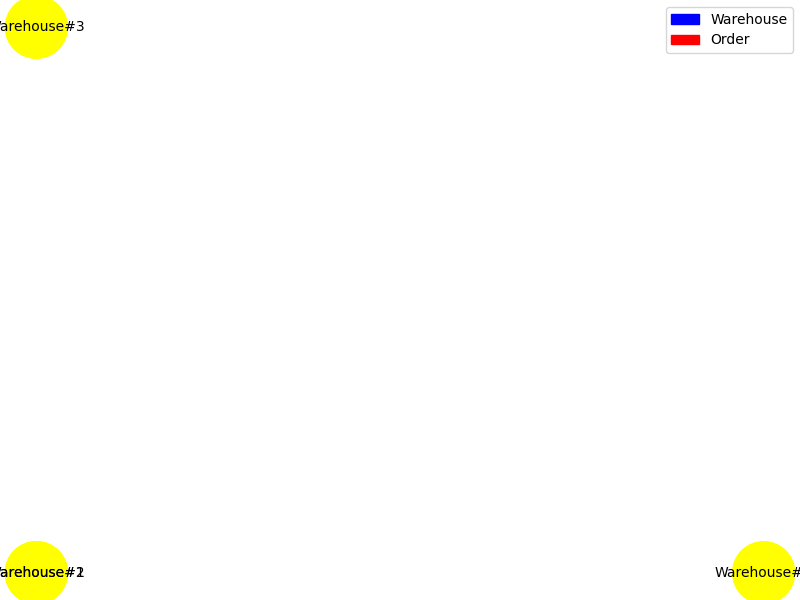
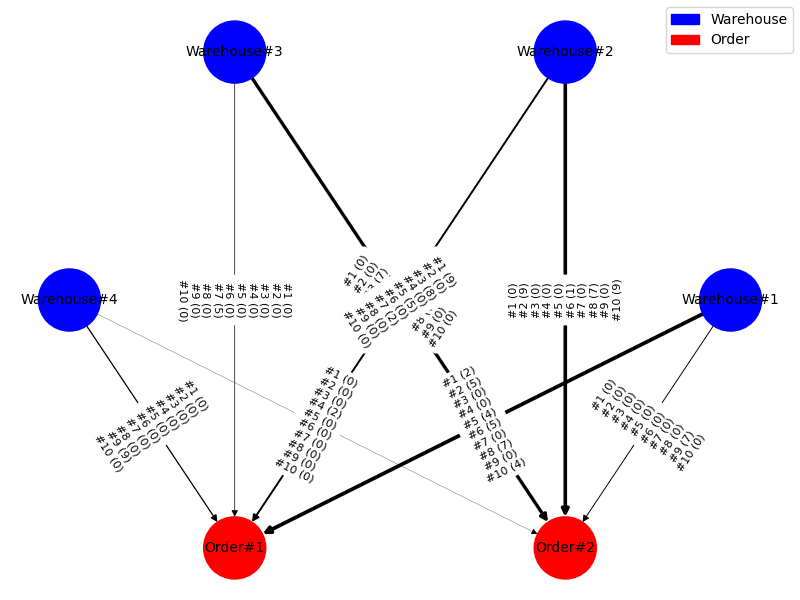
commit

diff --git a/network_diagram.py b/network_diagram.py
@@ -10,54 +10,63 @@ from read_data import load_excel_data
 def create_sourcing_graph(fulfillment_solution):
     # Create a directed graph
     G = nx.DiGraph()
-
-    # Determine warehouses and orders from shipments
-    warehouses = set(w for w, _, _, _ in fulfillment_solution)
-    orders = set(o for _, _, o, _ in fulfillment_solution)
-
-    print(orders)
-
-    # Add nodes to graph
+    
+    # Extract warehouses and orders from the DataFrame
+    warehouses = fulfillment_solution["Warehouse"].unique()
+    orders = fulfillment_solution["Order"].unique()
+    
+    # Add nodes for warehouses (blue) and orders (red)
     G.add_nodes_from(warehouses, color='blue')  # Warehouses
     G.add_nodes_from(orders, color='red')  # Orders
 
-    # Group shipments by (warehouse, order)
+    # Group shipments by (warehouse, order) and store product & quantity information
     shipment_info = defaultdict(list)
-    for w, p, o, q in fulfillment_solution:
-        shipment_info[(w, o)].append(f"{p} ({q})")
-
-    # Add edges with combined product info as labels
+    print(fulfillment_solution.columns)
+    for _, row in fulfillment_solution.iterrows():
+        w = row["Warehouse"]
+        o = row["Order"]
+        p = row["Product"]
+        q = row["Supply Quantity"]
+        shipment_info[(w, o)].append(f"{p[7:]} ({int(q)})")
+    
+    # Add edges and calculate edge properties (width and color)
     edge_labels = {}
     edge_widths = []
     edge_colors = []
-    for (w, o), p in shipment_info.items():
-        label = "\n".join(p)  # Combine all products for the edge
+    for (w, o), products in shipment_info.items():
+        label = "\n".join(products)  # Combine product info for the edge label
         G.add_edge(w, o, label=label)
         edge_labels[(w, o)] = label
-        total_qty = sum(int(p.split('(')[-1].strip(')')) for p in p)  # Sum quantities
+        
+        # Sum quantities for edge width scaling
+        total_qty = sum(int(float(p.split('(')[-1].strip(')'))) for p in products)
         edge_widths.append(total_qty / 10)  # Scale edge width by total quantity
         edge_colors.append("black")
+    
+    # Positioning the nodes using spectral layout
+    #pos = nx.spectral_layout(G)
+    pos = nx.circular_layout(G)
+    #pos = nx.spring_layout(G, k=200, scale=40) 
 
-    # Positioning the nodes
-    pos = nx.spectral_layout(G)
-
-    # Node colors
-    node_colors = ["yellow" if node in warehouses else "red" for node in G.nodes]
-
-    # Draw the network
+    # Assign node colors based on type (warehouse or order)
+    node_colors = ["blue" if node in warehouses else "red" for node in G.nodes]
+    
+    # Draw the network with labels, node colors, edge widths, and labels
     plt.figure(figsize=(8, 6))
     nx.draw(G, pos, with_labels=True, node_color=node_colors, edge_color=edge_colors, 
             node_size=2000, font_size=10, width=edge_widths, arrows=True)
     nx.draw_networkx_edge_labels(G, pos, edge_labels=edge_labels, font_size=8, label_pos=0.5)
-
-    # Add legend
+    
+    # Add a legend for clarity
     warehouse_patch = mpatches.Patch(color="blue", label="Warehouse")
     order_patch = mpatches.Patch(color="red", label="Order")
     plt.legend(handles=[warehouse_patch, order_patch], loc="upper right")
-
+    
+    # Add title and show the plot
     plt.title("Enhanced Sourcing Network Diagram")
     plt.show()
-
+    
+    # Save the figure
     plt.savefig('sourcing_network.png')
 
 
@@ -75,4 +84,4 @@ if __name__ == "__main__":
 
     print(fulfillment_solution)
     
-    create_sourcing_graph(fulfillment_solution.itertuples(index=False, name=None))
+    create_sourcing_graph(fulfillment_solution)
